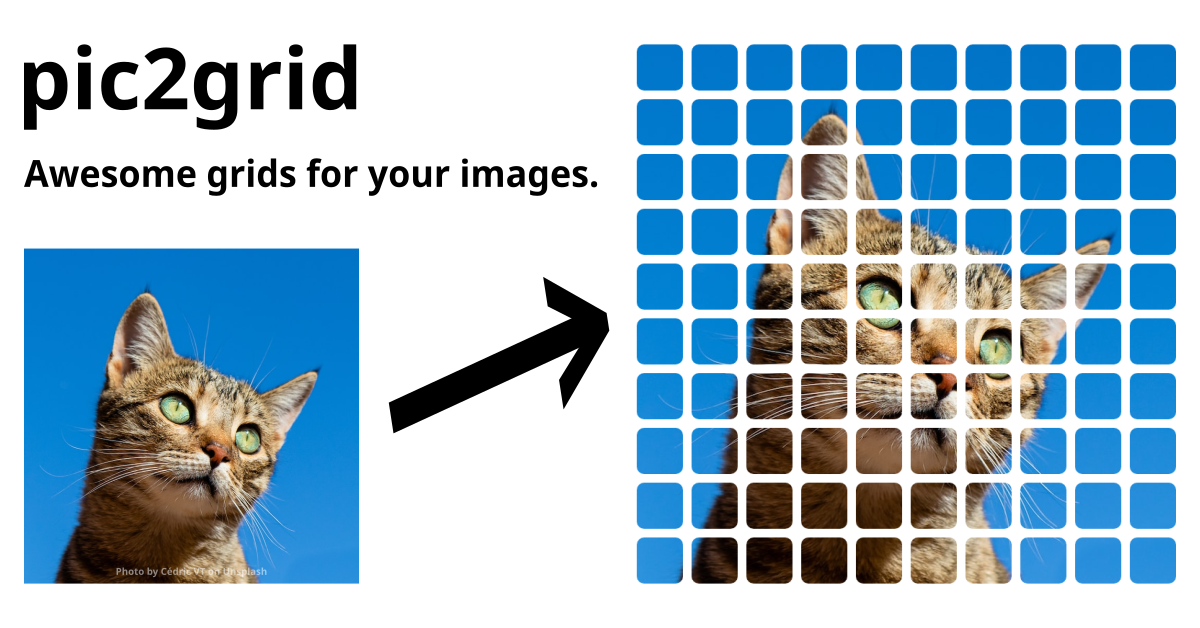
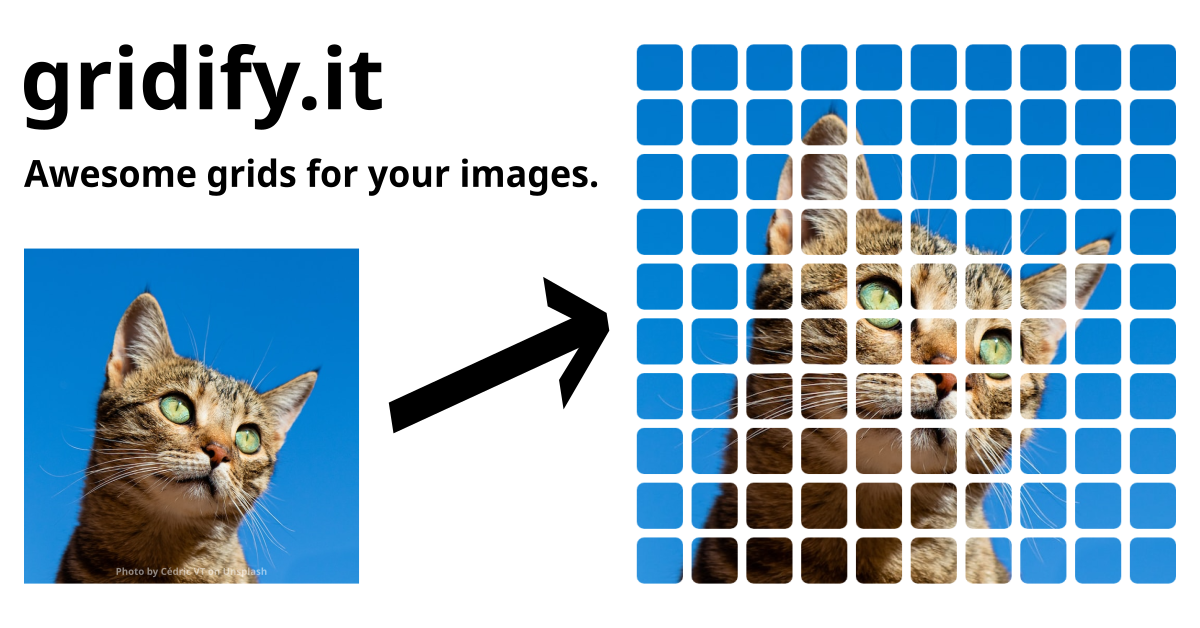
chore: rename project to gridify.it

Changed region(s): [[0.0, 0.0605, 0.3392, 0.2118]]

diff --git a/src/lib/metadata.ts b/src/lib/metadata.ts
@@ -1,7 +1,7 @@
-export const projectName = 'pic2grid';
-export const baseUrl = `https://${projectName}.vercel.app`;
+export const projectName = 'gridify.it';
+export const baseUrl = `https://www.gridify.it`;
 export const githubUrl = `https://github.com/velut/${projectName}`;
-export const githubIssuesUrl = `https://github.com/velut/${projectName}/issues`;
+export const githubIssuesUrl = `${githubUrl}/issues`;
 
 export const pageTitle = (title: string) => {
 	return `${title} | ${projectName}`;

diff --git a/README.md b/README.md
@@ -1,12 +1,12 @@
-# 🏁 [pic2grid]
+# 🏁 [gridify.it]
 
-[![Build status](https://img.shields.io/github/actions/workflow/status/velut/pic2grid/main.yml?branch=main)](https://github.com/velut/pic2grid/actions?query=workflow%3ACI)
-![Language](https://img.shields.io/github/languages/top/velut/pic2grid)
-[![License](https://img.shields.io/github/license/velut/pic2grid)](https://github.com/velut/pic2grid/blob/main/LICENSE)
+[![Build status](https://img.shields.io/github/actions/workflow/status/velut/gridify.it/main.yml?branch=main)](https://github.com/velut/gridify.it/actions?query=workflow%3ACI)
+![Language](https://img.shields.io/github/languages/top/velut/gridify.it)
+[![License](https://img.shields.io/github/license/velut/gridify.it)](https://github.com/velut/gridify.it/blob/main/LICENSE)
 
 <p align="center">
     <a href="TODO:">
-        <img width="256" src="images/cat_with_grid.png?raw=true" alt="Picture of cat with a white grid overlay generated by pic2grid">
+        <img width="256" src="images/cat_with_grid.png?raw=true" alt="Picture of cat with a white grid overlay generated by gridify.it">
     </a>
 </p>
 
@@ -14,11 +14,11 @@
 
 ## 📖 About
 
-With [pic2grid] you can easily add a customizable grid to your images or pixel art creations.
+With **[gridify.it]** you can easily add a customizable grid to your images or pixel art creations.
 You can use different grid types and line colors, you can also resize images and round the corners of grid cells.
-The images below show some examples of what you can do with pic2grid.
+The images below show some examples of what you can do with gridify.it.
 
-For more information, please read the [FAQ page] on the website.
+For more information, please read the **[FAQ page]** on the website.
 
 | <img width="256" src="images/examples/01.png?raw=true" alt=""> | <img width="256" src="images/examples/02.png?raw=true" alt=""> | <img width="256" src="images/examples/03.png?raw=true" alt=""> |
 | -------------------------------------------------------------- | -------------------------------------------------------------- | -------------------------------------------------------------- |
@@ -26,13 +26,13 @@ For more information, please read the [FAQ page] on the website.
 
 ## 💬 Feedback
 
-To report bugs, leave suggestions, or ask questions, please [open an issue](https://github.com/velut/pic2grid/issues).
+To report bugs, leave suggestions, or ask questions, please [open an issue](https://github.com/velut/gridify.it/issues).
 
 ## 📜 License
 
     AGPL-3.0-or-later
 
-Copyright (C) 2023 Edoardo Scibona. See [LICENSE](https://github.com/velut/pic2grid/blob/main/LICENSE).
+Copyright (C) 2023 Edoardo Scibona. See [LICENSE](https://github.com/velut/gridify.it/blob/main/LICENSE).
 
 This program is free software: you can redistribute it and/or modify
 it under the terms of the GNU Affero General Public License as published by
@@ -47,5 +47,5 @@ GNU Affero General Public License for more details.
 You should have received a copy of the GNU Affero General Public License
 along with this program. If not, see <https://www.gnu.org/licenses/>.
 
-[pic2grid]: TODO:
+[gridify.it]: TODO:
 [FAQ page]: TODO:
